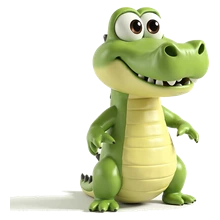
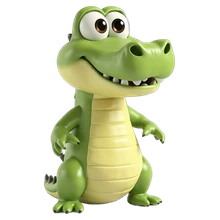
Figuras das letras pela MiniMax: 24 figuras novas (jacaré, dedo, doce, galo, lobo, nuvem, tomate, zíper…) com recorte por segmentação
Claude-Session: https://claude.ai/code/session_01XFnar5EqvbkeuXqeMQuF5Q

diff --git a/app/web/src/componentes/ui.tsx b/app/web/src/componentes/ui.tsx
@@ -58,7 +58,7 @@ export function Icone({ nome, tam, className = '' }: { nome: string; tam?: numbe
 
 /* ------------------------------------------------------------------ figuras 3D das atividades */
 const semAcento = (t: string) => t.toLowerCase().normalize('NFD').replace(/[̀-ͯ]/g, '').replace(/[^a-z ]/g, '').trim();
-const TEM = new Set('abacaxi abelha alto-falante aviao banana bola boneca caneca caranguejo casa chave cola concha copo dado elefante escada estrela faca fala feijao fila foca fofo fogo folha formiga garrafa gato ginga helicoptero hipopotamo iglu ilha ioio janela joinha kiwi lama leao lua lula lupa macaco mala mamae mao mel mesa mofo mola moto muda mula navio ovelha ovo pandeiro panela pao papai papel pare pato pe peixe peteca pipoca queijo rato rua sacola sapato sapo sol suco tatu urso uva vaca vela vovo-f vovo-m wesley xicara xilofone yakisoba yasmin zebra'.split(' '));
+const TEM = new Set('jacare dedo doce ema elastico galo horta jaca kart ketchup lobo ninho nuvem olho quiabo quadro roda tomate tapete unha wafer xadrez ziper zero abacaxi abelha alto-falante aviao banana bola boneca caneca caranguejo casa chave cola concha copo dado elefante escada estrela faca fala feijao fila foca fofo fogo folha formiga garrafa gato ginga helicoptero hipopotamo iglu ilha ioio janela joinha kiwi lama leao lua lula lupa macaco mala mamae mao mel mesa mofo mola moto muda mula navio ovelha ovo pandeiro panela pao papai papel pare pato pe peixe peteca pipoca queijo rato rua sacola sapato sapo sol suco tatu urso uva vaca vela vovo-f vovo-m wesley xicara xilofone yakisoba yasmin zebra'.split(' '));
 const POR_PALAVRA: Record<string, string> = { 'vovó': 'vovo-f', 'vovô': 'vovo-m', bolota: 'tatu', esquiva: 'ginga', sim: 'joinha', nao: 'pare', 'não': 'pare', 'copo plastico': 'copo' };
 const POR_EMOJI: Record<string, string> = {
   '🐱': 'gato', '🦆': 'pato', '✋': 'mao', '🍞': 'pao', '⚽': 'bola', '🧴': 'cola', '🏠': 'casa', '🏡': 'casa', '🪑': 'mesa', '🐸': 'sapo', '🌙': 'lua', '🛣': 'rua', '🪟': 'janela',

diff --git a/app/ferramentas/gerar-figura-minimax.py b/app/ferramentas/gerar-figura-minimax.py
@@ -1,7 +1,7 @@
 #!/usr/bin/env python3
 """Gera figuras 3D pela API da MiniMax (modelo image-01, o mais econômico) e recorta o fundo.
 A chave é injetada pelo proxy do ambiente (nunca fica em código). Uso:
-  gerar-figura-minimax.py <saida.webp> "<descrição em inglês do objeto>" [--tamanho 220] [--bruto pasta]
+  gerar-figura-minimax.py <saida.webp> "<descrição em inglês do objeto>" [--tamanho 220] [--bruto pasta] [--so-recortar] [--furos] [--macico]
 O estilo e o fundo branco são acrescentados aqui, para todas as figuras saírem no mesmo padrão."""
 import base64, json, os, sys, urllib.request
 from PIL import Image, ImageFilter
@@ -20,29 +20,40 @@ def gerar(prompt):
     if d.get('base_resp', {}).get('status_code') != 0: sys.exit(f"MiniMax: {d.get('base_resp')}")
     return base64.b64decode(d['data']['image_base64'][0])
 
-def recortar(im):
-    a = np.asarray(im.convert('RGB')).astype(int)
-    claro = (a.min(2) > 232) & ((a.max(2) - a.min(2)) < 14)          # branco do fundo
-    rot, _ = nd.label(claro)
-    borda = set(np.unique(np.concatenate([rot[0], rot[-1], rot[:, 0], rot[:, -1]]))) - {0}
-    fundo = np.isin(rot, list(borda))                                  # só o branco ligado à borda
-    fg = nd.binary_opening(~fundo, iterations=2)
-    rot2, n = nd.label(fg)
+_sessao = None
+def recortar(im, furos=False, macico=False):
+    """Recorte por modelo de segmentação (rembg, isnet-general-use): tira o fundo e a sombra do chão sem comer partes claras do objeto.
+    `furos` tira também o branco preso por dentro (anel, zero). Requer: pip install rembg onnxruntime."""
+    global _sessao
+    from rembg import remove, new_session
+    if _sessao is None: _sessao = new_session('isnet-general-use')
+    out = remove(im.convert('RGB'), session=_sessao)
+    if furos:
+        a = np.asarray(im.convert('RGB')).astype(int); al = np.asarray(out)[..., 3].copy()
+        al[(a.min(2) > 236) & ((a.max(2) - a.min(2)) < 10)] = 0
+        out.putalpha(Image.fromarray(al).filter(ImageFilter.GaussianBlur(1)))
+    al = np.asarray(out)[..., 3] > 40                                  # solta migalhas longe do objeto
+    rot, n = nd.label(al)
     if n > 1:
-        tam = nd.sum(fg, rot2, range(1, n + 1)); fg = np.isin(rot2, [i + 1 for i, t in enumerate(tam) if t > tam.max() * 0.03])
-    alfa = Image.fromarray((fg * 255).astype('uint8')).filter(ImageFilter.GaussianBlur(1.3))
-    out = im.convert('RGBA'); out.putalpha(alfa)
-    return out.crop(out.getbbox())
+        tam = nd.sum(al, rot, range(1, n + 1)); fica = np.isin(rot, [k + 1 for k, t in enumerate(tam) if t > tam.max() * 0.03])
+        out.putalpha(Image.fromarray((np.asarray(out)[..., 3] * fica).astype('uint8')))
+    if macico:                                                         # quadro, janela: o miolo é parte do objeto
+        al = np.asarray(out)[..., 3]; cheio = nd.binary_fill_holes(al > 40)
+        out = im.convert('RGBA'); out.putalpha(Image.fromarray(np.maximum(al, cheio * 255).astype('uint8')))
+    cx = Image.fromarray(((np.asarray(out)[..., 3] > 40) * 255).astype('uint8')).getbbox()
+    return out.crop(cx)
 
 if __name__ == '__main__':
     saida, prompt = sys.argv[1], sys.argv[2]
     tam = int(sys.argv[sys.argv.index('--tamanho') + 1]) if '--tamanho' in sys.argv else 220
     bruto = sys.argv[sys.argv.index('--bruto') + 1] if '--bruto' in sys.argv else None
-    dados = gerar(prompt)
-    if bruto:
-        os.makedirs(bruto, exist_ok=True); open(os.path.join(bruto, os.path.basename(saida).rsplit('.', 1)[0] + '.jpg'), 'wb').write(dados)
     import io
-    fig = recortar(Image.open(io.BytesIO(dados)))
+    arq = os.path.join(bruto, os.path.basename(saida).rsplit('.', 1)[0] + '.jpg') if bruto else None
+    if '--so-recortar' in sys.argv: dados = open(arq, 'rb').read()   # refaz o recorte do bruto já salvo, sem gastar créditos
+    else:
+        dados = gerar(prompt)
+        if arq: os.makedirs(bruto, exist_ok=True); open(arq, 'wb').write(dados)
+    fig = recortar(Image.open(io.BytesIO(dados)), furos='--furos' in sys.argv, macico='--macico' in sys.argv)
     fig.thumbnail((tam - 12, tam - 12), Image.LANCZOS)
     tela = Image.new('RGBA', (tam, tam), (0, 0, 0, 0)); tela.alpha_composite(fig, ((tam - fig.width) // 2, (tam - fig.height) // 2))
     tela.save(saida, quality=92); print('ok', saida)
